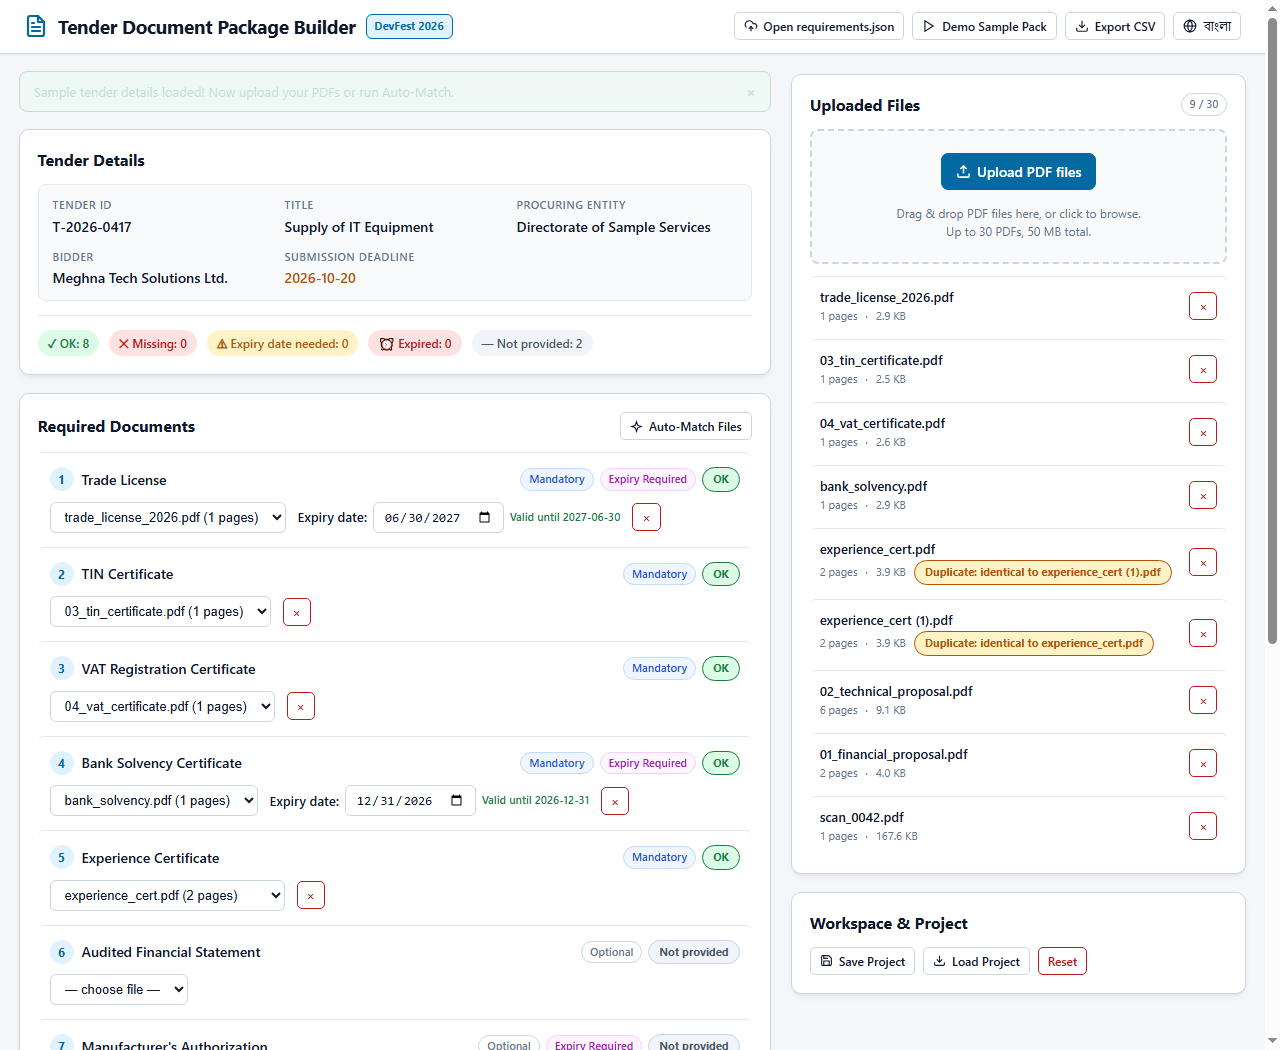
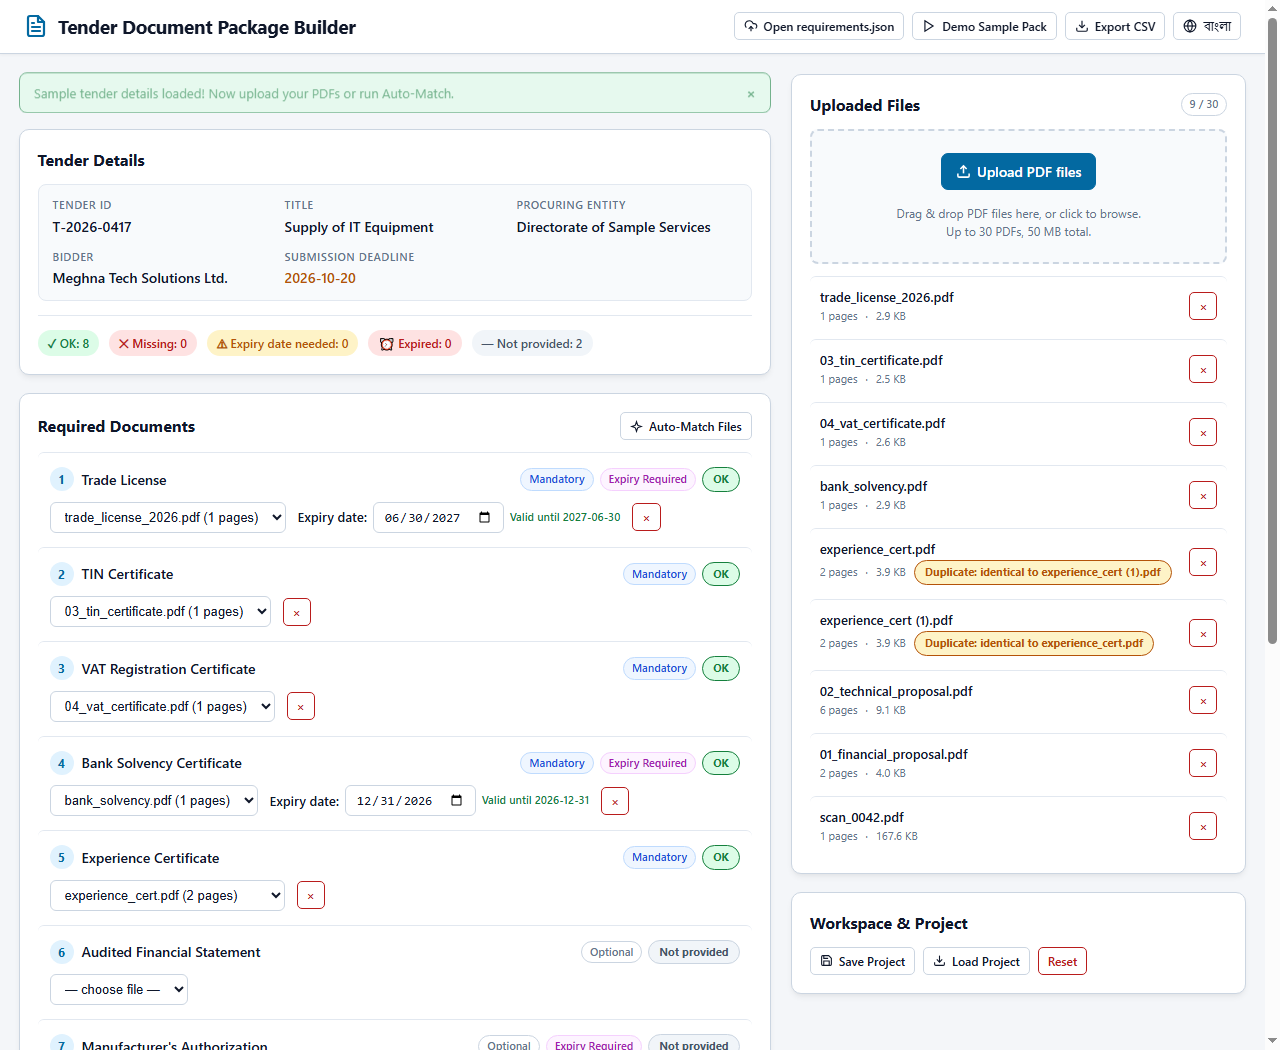
Remove DevFest 2026 badge from header and update screenshots
Prompt: "Remove the DevFest 2026 badge from the header next to the app title and update UI screenshots."

Changed region(s): [[0.0312, 0.0, 0.375, 0.1219], [0.5625, 0.061, 0.5938, 0.0914]]

diff --git a/Tender Package Builder.html b/Tender Package Builder.html
@@ -586,7 +586,6 @@ main {
   <div class="brand">
     <svg width="24" height="24" viewBox="0 0 24 24" fill="none" stroke="currentColor" stroke-width="2.2" stroke-linecap="round" stroke-linejoin="round" style="color:var(--ac)"><path d="M14 2H6a2 2 0 0 0-2 2v16a2 2 0 0 0 2 2h12a2 2 0 0 0 2-2V8z"/><polyline points="14 2 14 8 20 8"/><line x1="16" y1="13" x2="8" y2="13"/><line x1="16" y1="17" x2="8" y2="17"/><polyline points="10 9 9 9 8 9"/></svg>
     <h1 id="appTitle">Tender Document Package Builder</h1>
-    <span class="brand-badge">DevFest 2026</span>
   </div>
   <div class="nav-actions">
     <label class="btn btn-sm" id="btnReqLabel">

diff --git a/index.html b/index.html
@@ -586,7 +586,6 @@ main {
   <div class="brand">
     <svg width="24" height="24" viewBox="0 0 24 24" fill="none" stroke="currentColor" stroke-width="2.2" stroke-linecap="round" stroke-linejoin="round" style="color:var(--ac)"><path d="M14 2H6a2 2 0 0 0-2 2v16a2 2 0 0 0 2 2h12a2 2 0 0 0 2-2V8z"/><polyline points="14 2 14 8 20 8"/><line x1="16" y1="13" x2="8" y2="13"/><line x1="16" y1="17" x2="8" y2="17"/><polyline points="10 9 9 9 8 9"/></svg>
     <h1 id="appTitle">Tender Document Package Builder</h1>
-    <span class="brand-badge">DevFest 2026</span>
   </div>
   <div class="nav-actions">
     <label class="btn btn-sm" id="btnReqLabel">
